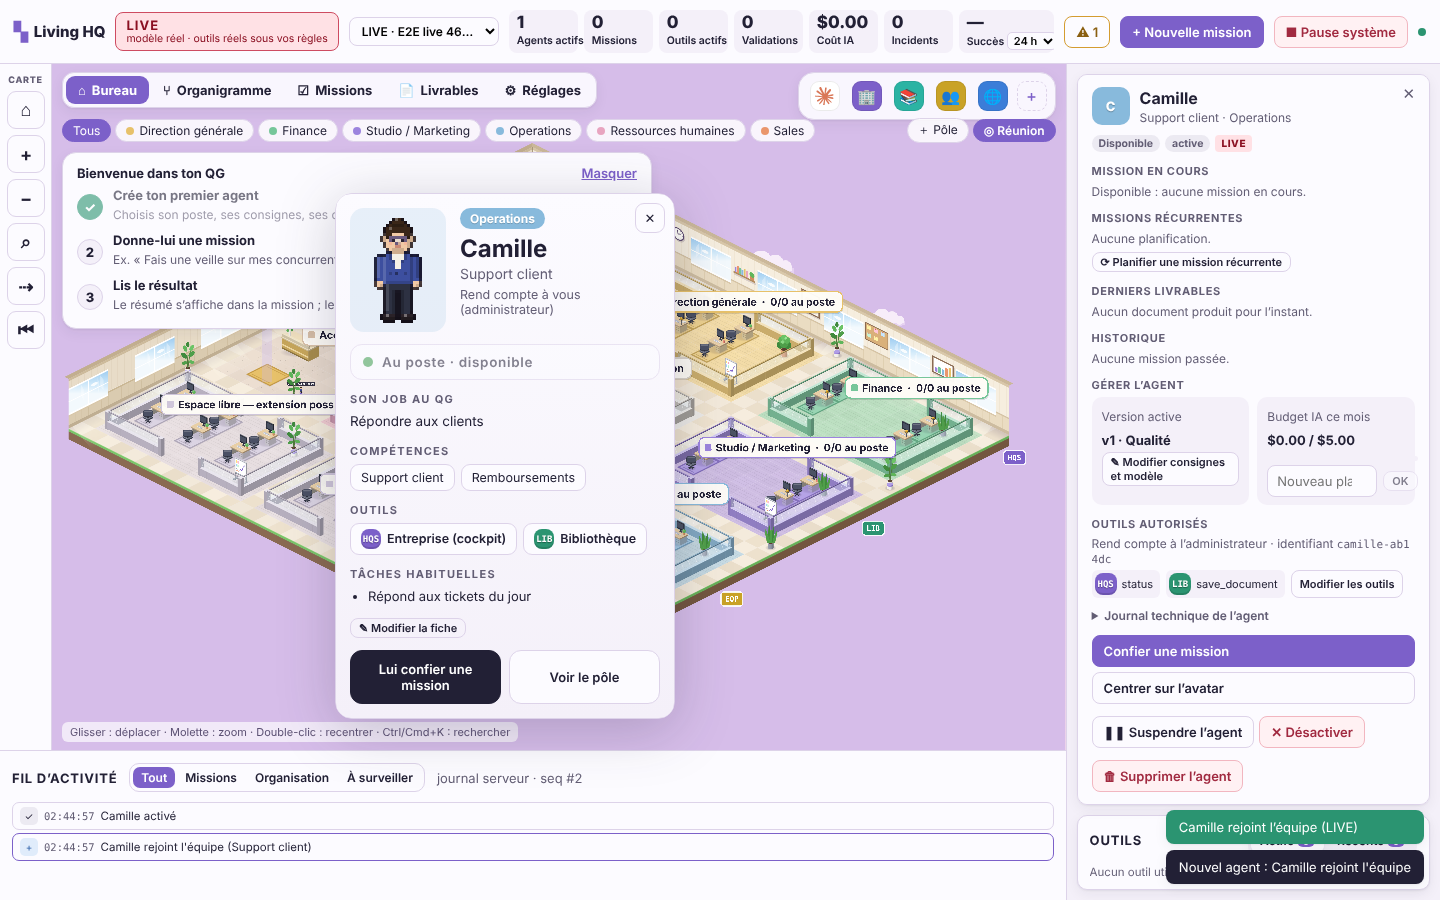
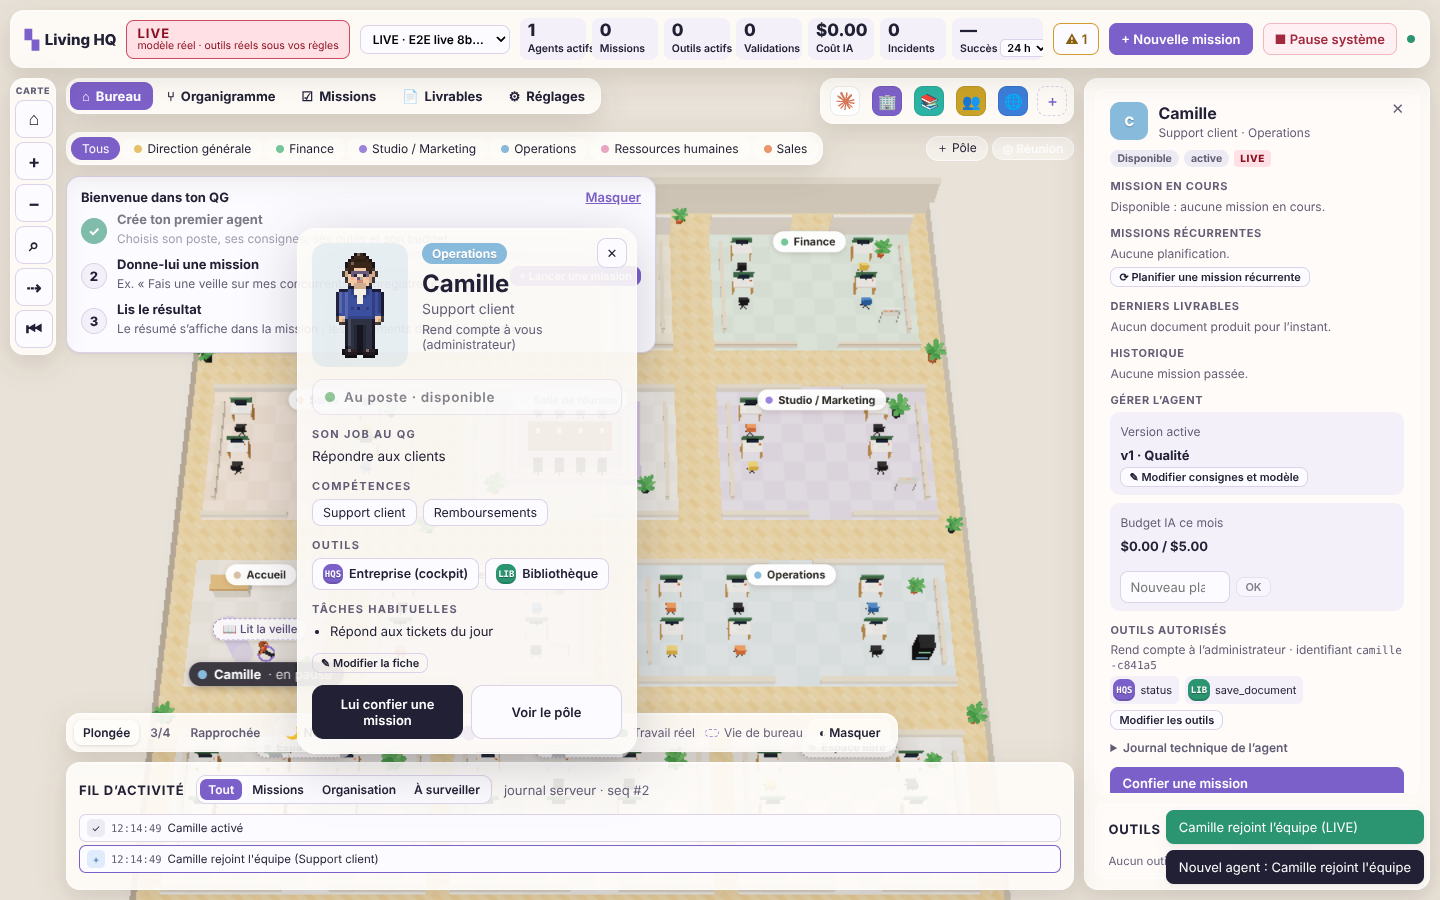
QG 3D : fiche agent et onglets au-dessus des panneaux, délai e2e adapté au rendu logiciel
Claude-Session: https://claude.ai/code/session_01DsWanc4oZCj3FsQZvrfyLX

diff --git a/apps/web/src/components/cockpit/AgentPopover.tsx b/apps/web/src/components/cockpit/AgentPopover.tsx
@@ -84,7 +84,9 @@ export function AgentPopover({
         const minY = bar && bar.height > 0 ? bar.bottom - paneR.top + 8 : 48;
         if (p && x > maxX) x = canR.left - paneR.left + p.x - GAP - CARD_W;
         x = Math.max(8, Math.min(x, maxX));
-        y = Math.max(minY, Math.min(y, paneR.height - h - 8));
+        const feed = pane.closest('.cockpit')?.querySelector('.feed')?.getBoundingClientRect();
+        const maxY = (feed && feed.height > 0 ? feed.top - paneR.top : paneR.height) - h - 8;
+        y = Math.max(minY, Math.min(y, maxY));
         el.style.transform = `translate(${Math.round(x)}px, ${Math.round(y)}px)`;
         el.style.opacity = '1';
       }

diff --git a/apps/web/src/app/globals.css b/apps/web/src/app/globals.css
@@ -3708,3 +3708,10 @@ kbd {
   backdrop-filter: none;
   background: rgba(var(--glass-rgb), max(0.9, var(--ga)));
 }
+/* Ordre d'empilement : onglets et applis au-dessus des pôles ; fiche agent au-dessus des panneaux. */
+.cockpit.immersive .world-pane .view-bar {
+  z-index: 9;
+}
+.cockpit.immersive .agent-popover {
+  z-index: 28;
+}

diff --git a/playwright.config.ts b/playwright.config.ts
@@ -2,7 +2,8 @@ import { defineConfig, devices } from '@playwright/test';
 
 export default defineConfig({
   testDir: 'tests/e2e',
-  timeout: 30_000,
+  // 45 s : le QG 3D est rendu en WebGL logiciel (SwiftShader) dans le navigateur de test.
+  timeout: 45_000,
   fullyParallel: false,
   workers: 1,
   reporter: [['list']],
